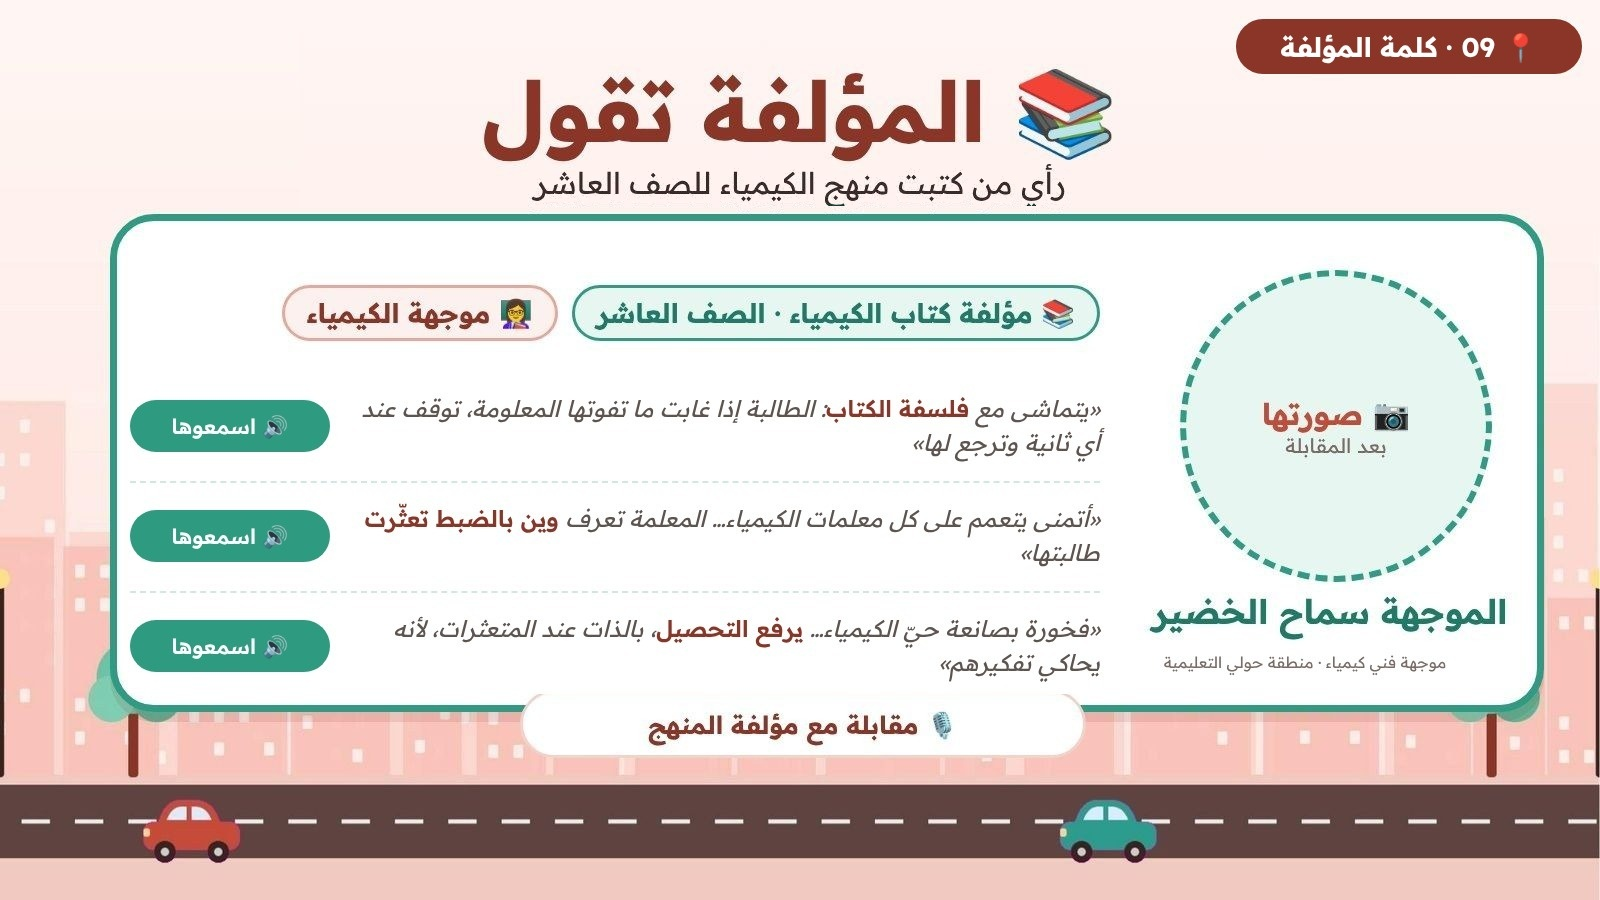
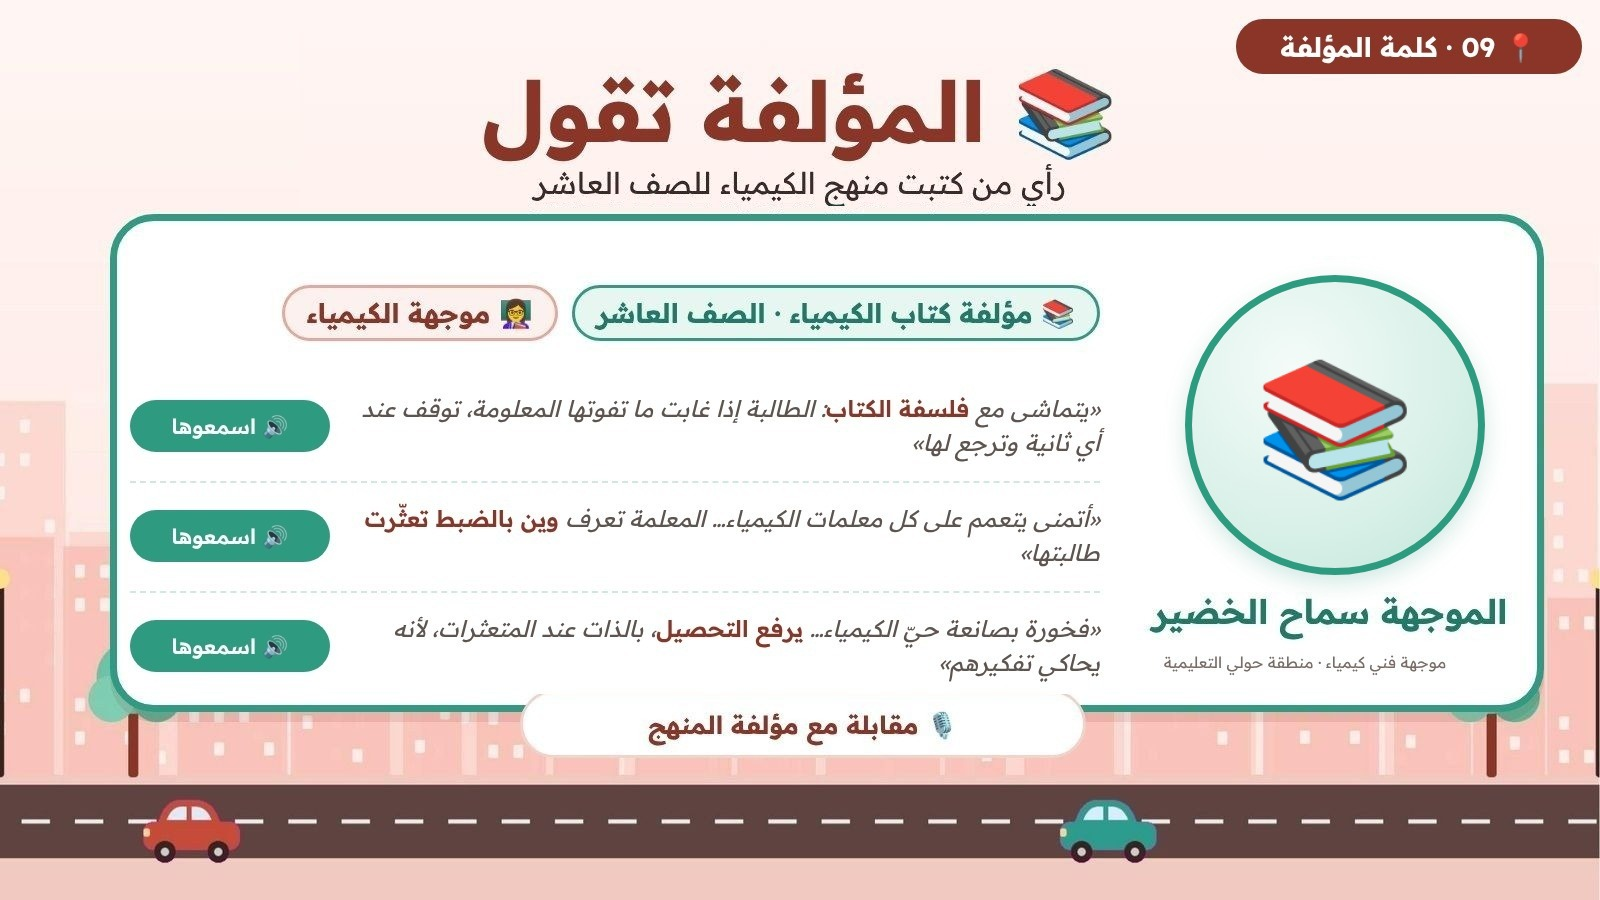
سلايد 9 بدون صورة (أيقونة كتب بدل «صورتها بعد المقابلة») + فتح المجلة للحكام
القاعدة القديمة بـ _src/author/base-placeholder.jpg عشان صورة أ. سماح لما توصل.

Claude-Session: https://claude.ai/code/session_017v5M1nEnXeKxMNFSgYgY9j

diff --git a/index.html b/index.html
@@ -426,7 +426,7 @@ const CONFIG = {
     intro:   'intro.mp4',   // فيديو المقدمة
     video:   'project.mp4',   // فيديو المشروع (التصوير + المونتاج)
     ai:      'ai.mp4',   // فيديو الذكاء الاصطناعي
-    slides:  ((function(){ try{ if(/[?&#]preview\b/.test(location.href)) localStorage.setItem('hayy.preview','1'); if(/[?&]student\b/.test(location.search)) localStorage.removeItem('hayy.preview'); return localStorage.getItem('hayy.preview')==='1'; }catch(e){ return /[?&#]preview\b/.test(location.href); } })()?'flip':''),   // العرض: يطلع «قريبًا» للكل، والمجلة بس مع ?preview (رابط أفنان للمراجعة). للنشر: خليها 'flip'
+    slides:  'flip',   // العرض: مجلة مفتوحة للكل (فُتحت 14/11 للحكام). ?preview صار ما يفرق
     slidesCount: 14,
     slidesLink: 'https://docs.google.com/presentation/d/1ix6IXVzHaZDfBP6o-S6j4i7wuDFxMNQtlNXGKxHedow/present',
     results: '',   // النتائج (صورة الرسم أو رابط)

diff --git a/_src/author/s9-nophoto.html b/_src/author/s9-nophoto.html
@@ -1,0 +1,13 @@
+<!doctype html><html dir="rtl" lang="ar"><head><meta charset="utf-8"><style>
+@font-face{font-family:R;font-weight:600;src:url(/tmp/claude-0/-home-claude/7884dbee-0484-5500-9032-b9a9ee253dee/scratchpad/deck/node_modules/@fontsource/readex-pro/files/readex-pro-arabic-600-normal.woff2)}
+*{margin:0;box-sizing:border-box}html,body{width:1600px;height:900px;background:transparent;font-family:R,'Noto Color Emoji',sans-serif}
+.wipe{position:absolute;left:1168px;top:260px;width:336px;height:332px;background:#fff}
+.c{position:absolute;left:1185px;top:275px;width:300px;height:300px;border-radius:50%;border:7px solid #2e9a7f;
+ background:radial-gradient(circle at 35% 30%,#f4fbf8 0%,#d8f0e8 60%,#c2e6da 100%);display:flex;flex-direction:column;align-items:center;justify-content:center;
+ box-shadow:0 8px 22px rgba(46,154,127,.22)}
+.e{font-size:130px;line-height:1}
+.t{margin-top:10px;font-size:20px;font-weight:600;color:#2e7d69}
+</style></head><body>
+<div class="wipe"></div>
+<div class="c"><div class="e">📚</div></div>
+</body></html>
